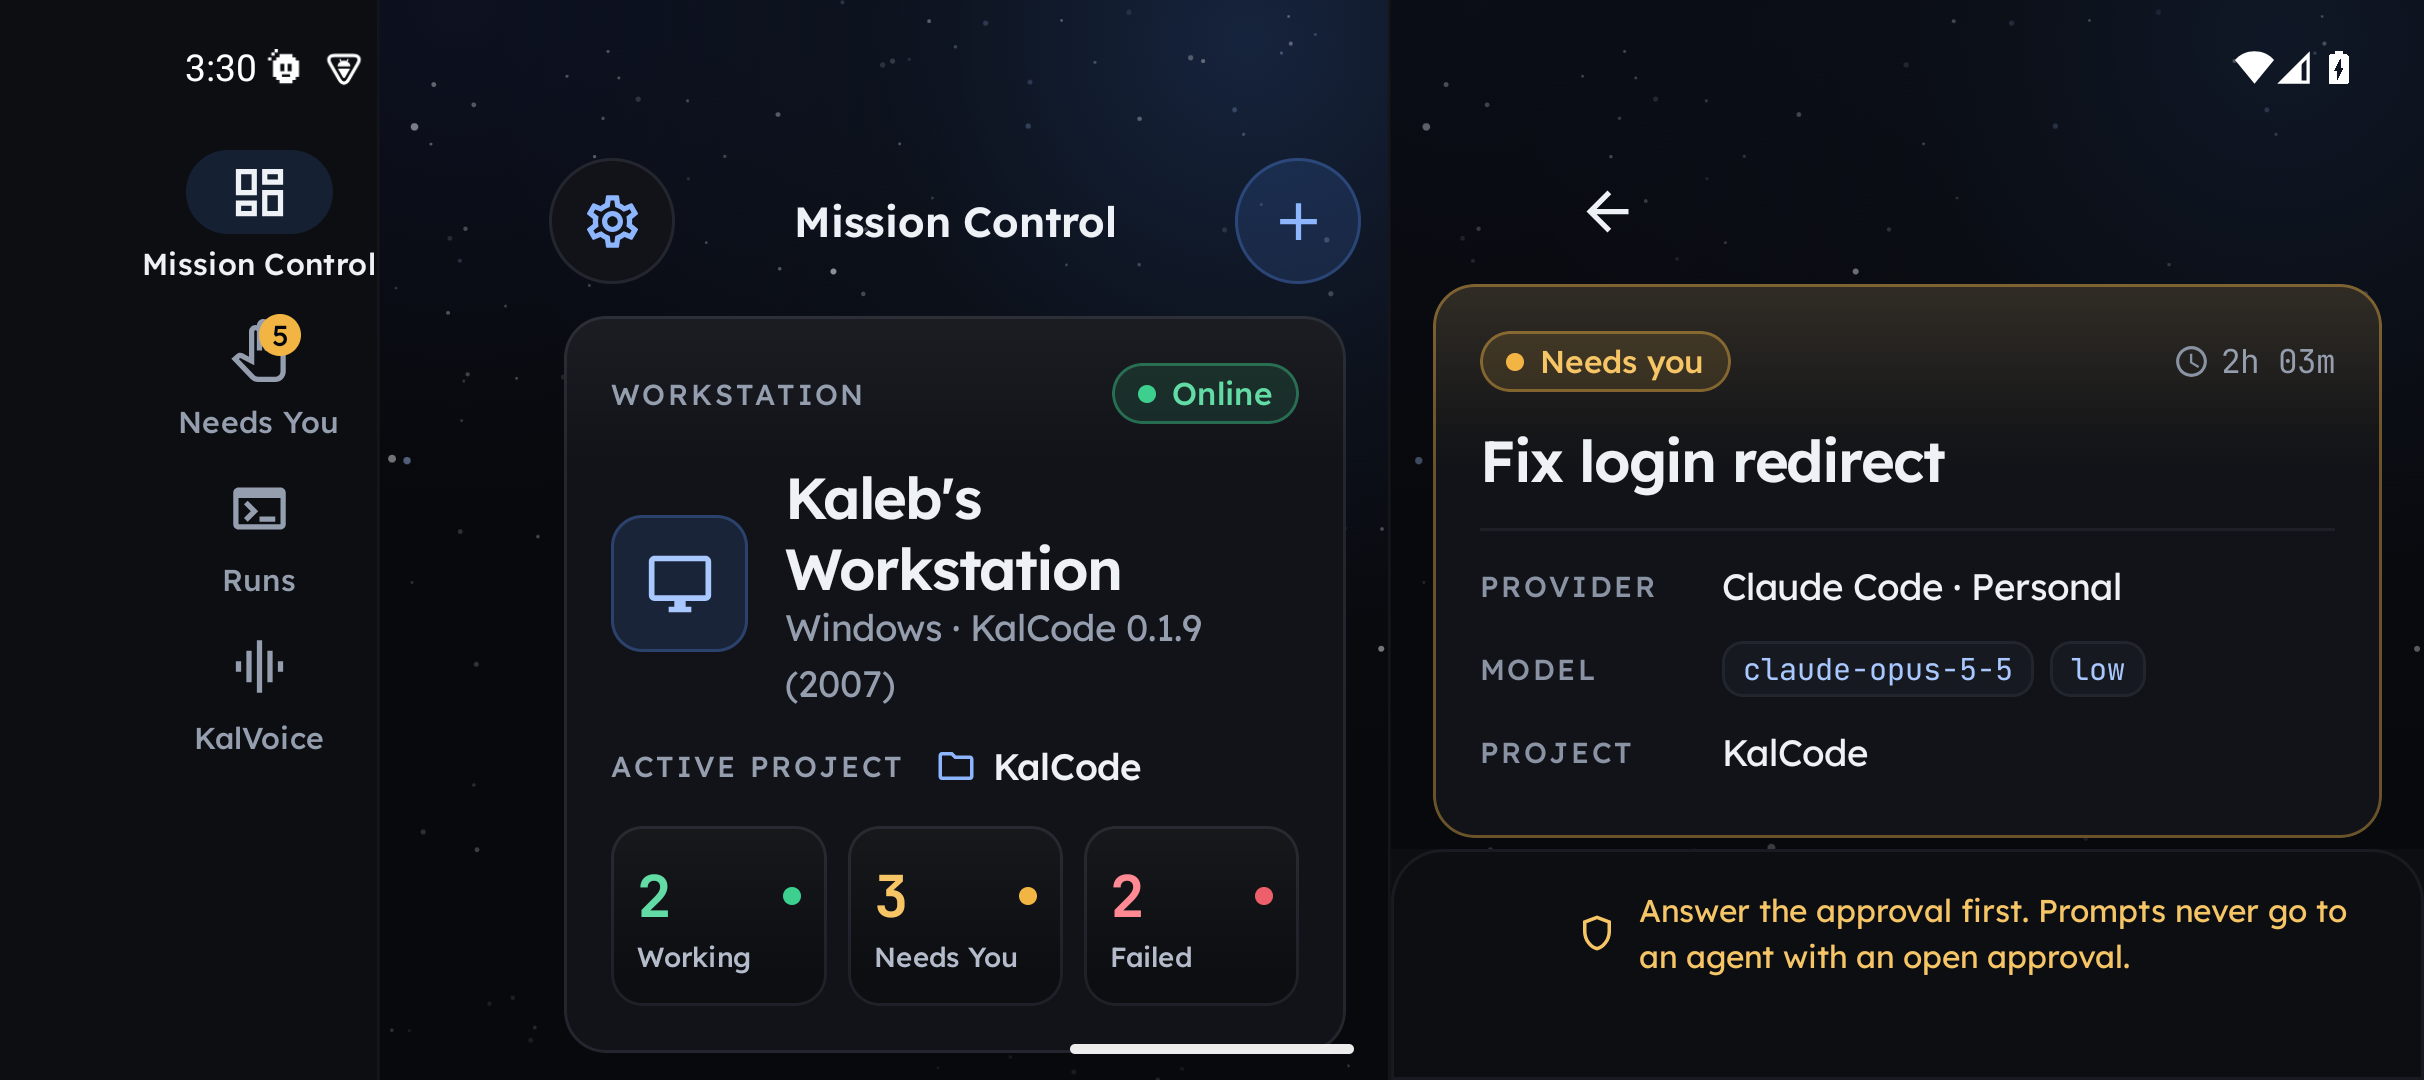
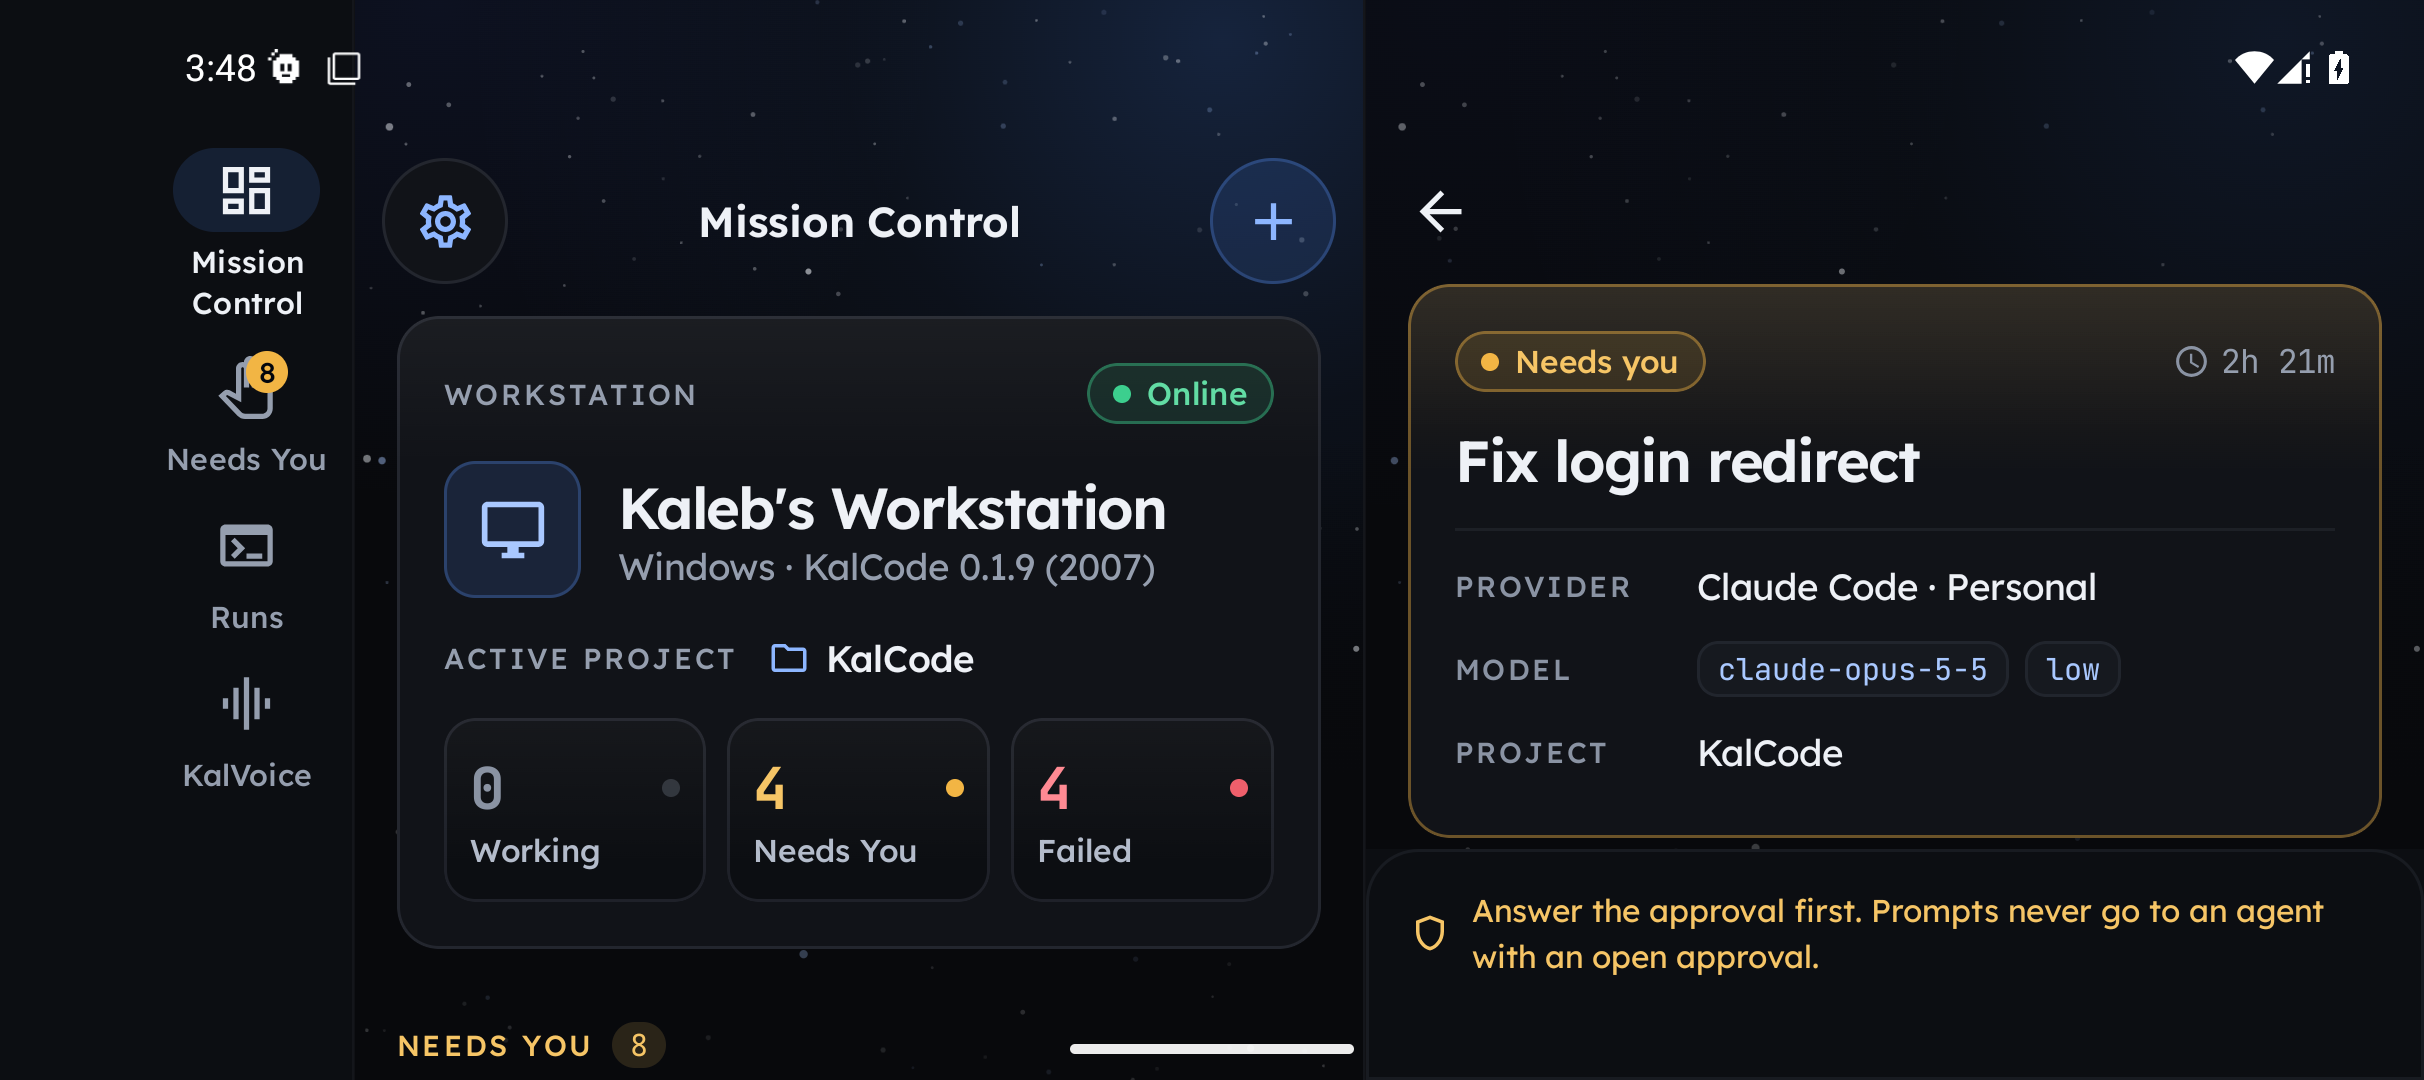
feat(remote-android): lint-clean final pass, tablet layouts, screenshots
Two panes from 840 dp, compact rail on short screens, one-line blocked
composer, Full log opens at the newest line, KalVoice scrolls to the result,
in-app banners only for decisions and failures, font licences and README.
Screenshots for phone and tablet, portrait and landscape.

diff --git a/apps/mobile/android/app/src/main/java/com/kalcode/remote/ui/RemoteApp.kt b/apps/mobile/android/app/src/main/java/com/kalcode/remote/ui/RemoteApp.kt
@@ -205,7 +205,8 @@ private fun ReplacePairingDialog(link: String, current: String, onDone: () -> Un
     val messages = LocalMessages.current
     val scope = rememberCoroutineScope()
     val payload = remember(link) { runCatching { PairingLink.parse(link) } }
-    val same = payload.getOrNull()?.wid != null && payload.getOrNull()?.wid == client.workstation.value?.wid
+    val currentWid by client.workstation.collectAsStateWithLifecycle()
+    val same = payload.getOrNull()?.wid != null && payload.getOrNull()?.wid == currentWid?.wid
     AlertDialog(
         onDismissRequest = onDone,
         containerColor = Kc.Overlay,
@@ -283,7 +284,7 @@ private fun MainShell(app: KalCodeRemoteApp, nav: Navigator) {
         val width = maxWidth
         val height = maxHeight
         val rail = width >= 600.dp
-        val twoPane = width >= 720.dp
+        val twoPane = width >= 840.dp // Material "expanded": list + detail side by side
         CompositionLocalProvider(LocalLayout provides Layout(twoPane, rail)) {
             if (rail) {
                 Row(Modifier.fillMaxSize()) {
@@ -603,7 +604,7 @@ private fun KcRail(nav: Navigator, compact: Boolean) {
                 selected = nav.tab == tab,
                 onClick = { nav.select(tab) },
                 icon = { TabIcon(tab, fleet) },
-                label = { Text(tab.title, style = MaterialTheme.typography.labelMedium.copy(fontSize = androidx.compose.ui.unit.TextUnit(11.5f, androidx.compose.ui.unit.TextUnitType.Sp)), maxLines = 1, softWrap = false) },
+                label = { Text(tab.title, style = MaterialTheme.typography.labelMedium.copy(fontSize = androidx.compose.ui.unit.TextUnit(11.5f, androidx.compose.ui.unit.TextUnitType.Sp)), maxLines = 2, textAlign = androidx.compose.ui.text.style.TextAlign.Center, modifier = Modifier.widthIn(max = 76.dp)) },
                 colors = NavigationRailItemDefaults.colors(
                     selectedIconColor = Kc.Starlight,
                     selectedTextColor = Kc.Starlight,
@@ -628,9 +629,5 @@ private fun TabIcon(tab: Tab, fleet: FleetState) {
         Icon(tab.icon, contentDescription = if (needs > 0) "${tab.title}, $needs need you" else tab.title)
     }
 }
-
-/** Screen header used by detail screens: back button, title, and status-bar inset. */
-@Composable
-fun headerInsets(): Modifier = Modifier.windowInsetsPadding(WindowInsets.safeDrawing.only(WindowInsetsSides.Top + WindowInsetsSides.Horizontal))
 
 fun Modifier.headingSemantics(): Modifier = semantics { heading() }

diff --git a/apps/mobile/android/app/src/main/java/com/kalcode/remote/ui/screens/AgentScreen.kt b/apps/mobile/android/app/src/main/java/com/kalcode/remote/ui/screens/AgentScreen.kt
@@ -134,6 +134,7 @@ fun AgentScreen(agentId: String, onBack: () -> Unit, onOpenDiff: () -> Unit, onO
     val fleet by client.fleet.collectAsStateWithLifecycle()
     val status by client.status.collectAsStateWithLifecycle()
     val queue by client.queue.collectAsStateWithLifecycle()
+    val wsName = client.workstation.collectAsStateWithLifecycle().value?.name ?: "your workstation"
     val agent = fleet.agent(agentId)
     val online = status == ConnectionStatus.Online
     var detail by remember(agentId) { mutableStateOf<AgentDetail?>(null) }
@@ -244,7 +245,7 @@ fun AgentScreen(agentId: String, onBack: () -> Unit, onOpenDiff: () -> Unit, onO
                 val d = detail
                 when {
                     d == null && !online -> item("wait") {
-                        Text("Output loads when ${client.workstation.value?.name ?: "your workstation"} is connected.", style = MaterialTheme.typography.bodyMedium, color = Kc.Nebula)
+                        Text("Output loads when $wsName is connected.", style = MaterialTheme.typography.bodyMedium, color = Kc.Nebula)
                     }
                     d == null && loadError != null -> item("err") { Notice(loadError!!, Tone.Failed, icon = Icons.Outlined.ErrorOutline) }
                     d == null -> item("loading") {

diff --git a/apps/mobile/android/app/src/main/java/com/kalcode/remote/ui/screens/VoiceScreen.kt b/apps/mobile/android/app/src/main/java/com/kalcode/remote/ui/screens/VoiceScreen.kt
@@ -137,6 +137,7 @@ fun VoiceScreen() {
     val scope = rememberCoroutineScope()
     val status by client.status.collectAsStateWithLifecycle()
     val reduced = LocalReducedMotion.current
+    val wsName = client.workstation.collectAsStateWithLifecycle().value?.name ?: "your workstation"
     var typed by rememberSaveable { mutableStateOf("") }
     var listening by remember { mutableStateOf(false) }
     var partial by remember { mutableStateOf("") }
@@ -234,7 +235,7 @@ fun VoiceScreen() {
                         )
                         Spacer(Modifier.height(6.dp))
                         Text(
-                            partial.ifBlank { speechNote ?: "Ask for status, steer an agent, approve, launch or tidy up — the same commands as KalVoice on ${client.workstation.value?.name ?: "your workstation"}." },
+                            partial.ifBlank { speechNote ?: "Ask for status, steer an agent, approve, launch or tidy up — the same commands as KalVoice on $wsName." },
                             style = MaterialTheme.typography.bodyMedium,
                             color = if (speechNote != null && partial.isBlank()) Kc.WaitingText else Kc.Nebula,
                             textAlign = TextAlign.Center,

diff --git a/apps/mobile/android/README.md b/apps/mobile/android/README.md
@@ -1,0 +1,36 @@
+# KalCode Remote for Android
+
+Native Kotlin + Jetpack Compose client for KalCode Remote (protocol: `docs/REMOTE_PROTOCOL.md`).
+Phones and tablets, Android 13+ (minSdk 33, target 35). Same information architecture and copy as
+`apps/mobile/ios`: Mission Control, Needs You, Runs, KalVoice; Settings and Launch in the top bar.
+
+## Layout
+
+- `protocol/` — Noise IK (BouncyCastle X25519 + ChaCha20-Poly1305), framing, wire types, fleet
+  reducer, offline queue, pairing and deep links. Pure Kotlin, JVM-tested.
+- `client/` — `RemoteClient` (parallel connect, hello → snapshot, patches with rev-gap reconnect,
+  requests, 15 s ping / 35 s silence, 0.5 → 10 s backoff, offline queue, revoke), Keystore-wrapped
+  device key and pinned workstation.
+- `ui/` — Compose screens; `LinkService` keeps the link for 10 minutes after leaving the app
+  (Android 15 cuts background network) so `notify` events still arrive.
+
+## Build and test
+
+```sh
+# JDK 17 and an Android SDK (platform 35, build-tools 35)
+./gradlew assembleDebug testDebugUnitTest lint
+./gradlew connectedDebugAndroidTest   # needs a device or emulator
+```
+
+The Noise test reproduces `crates/remote/tests/vectors/noise_ik.json` byte for byte. The
+instrumentation tests run the real app against `FakeHost` (a Kotlin Noise responder) on the
+device's loopback.
+
+## Against the dev host (emulator)
+
+```sh
+cargo run -p kalcode-remote --example devhost -- --data <dir> --agents 8 --addr 10.0.2.2:47820
+adb shell am start -a android.intent.action.VIEW -d '<pairing link from devhost stdout>'
+```
+
+Fonts: Lexend Deca and JetBrains Mono, SIL OFL 1.1 (`licenses/`).
